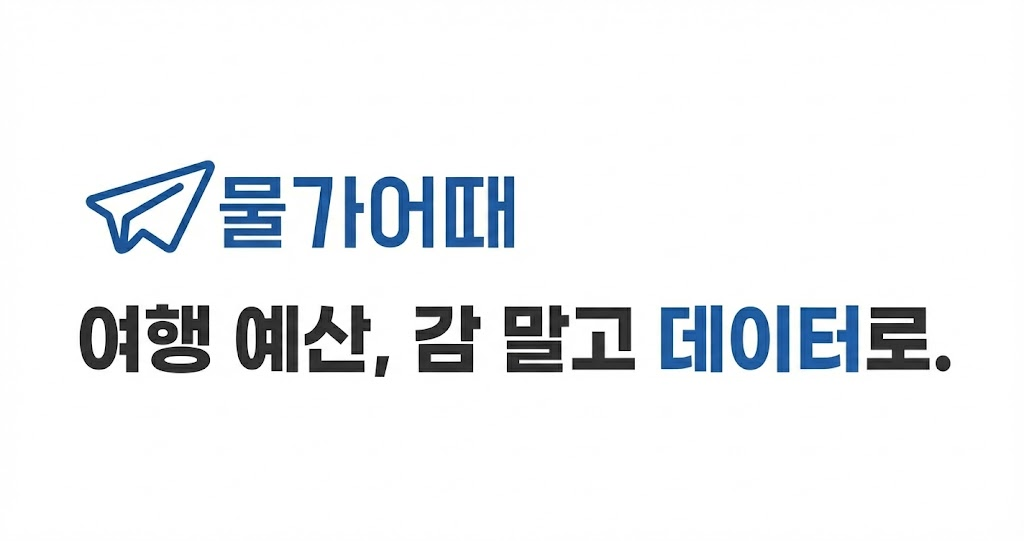
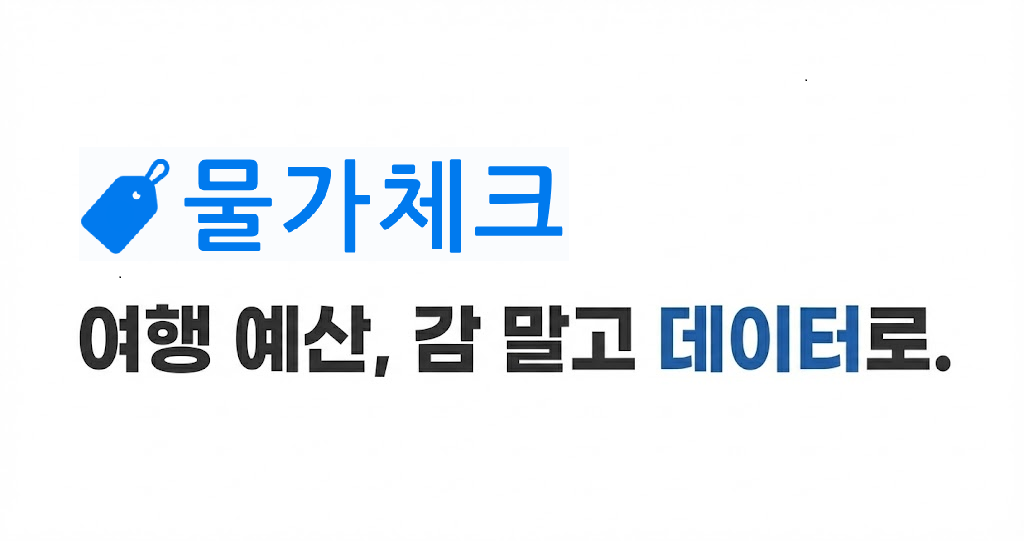
Add Vercel Analytics

Changed region(s): [[0.0625, 0.2957, 0.5625, 0.4732]]

diff --git a/src/app/checklist/page.tsx b/src/app/checklist/page.tsx
@@ -10,7 +10,9 @@ export default function ChecklistPage() {
   const [checkedItems, setCheckedItems] = useState<string[]>([]);
   const [isLoaded, setIsLoaded] = useState(false);
   const [previewUrl, setPreviewUrl] = useState<string | null>(null);
+  
   const captureRef = useRef<HTMLDivElement>(null);
+
   const getAllItems = () => {
     return CHECKLIST_CATEGORIES.flatMap((category) => category.items);
   };
@@ -77,7 +79,7 @@ export default function ChecklistPage() {
       const url = `${window.location.origin}${window.location.pathname}?data=${data}`;
 
       const shareData = {
-        title: '물가어때 - 여행 짐 싸기 체크리스트',
+        title: '물가체크 - 여행 짐 싸기 체크리스트',
         text: `현재 짐 챙기기 ${progress}% 완료! 제 리스트를 확인해보세요.`,
         url: url,
       };
@@ -109,7 +111,7 @@ export default function ChecklistPage() {
         setPreviewUrl(dataUrl);
       } else {
         const link = document.createElement("a");
-        link.download = `mulgaeottae_checklist_${Date.now()}.png`;
+        link.download = `mulgacheck_checklist_${Date.now()}.png`;
         link.href = dataUrl;
         link.click();
       }
@@ -161,7 +163,7 @@ export default function ChecklistPage() {
         <div className="bg-[#F8FAFC] p-4 -m-4">
           <div className="text-center mb-8 md:hidden">
               <h2 className="text-xl font-bold text-slate-800">나의 여행 체크리스트</h2>
-              <p className="text-xs text-slate-400 mt-1">물가어때(Mulgaeottae) 제공</p>
+              <p className="text-xs text-slate-400 mt-1">물가체크(MulgaCheck) 제공</p>
           </div>
 
           <div className="grid grid-cols-1 md:grid-cols-2 gap-6">
@@ -201,7 +203,7 @@ export default function ChecklistPage() {
           </div>
           
           <div className="mt-8 text-center hidden md:block">
-            <p className="text-[10px] text-slate-300 font-bold uppercase tracking-widest">Powered by Mulgaeottae</p>
+            <p className="text-[10px] text-slate-300 font-bold uppercase tracking-widest">Powered by MulgaCheck</p>
           </div>
         </div>
       </div>
@@ -255,11 +257,11 @@ export default function ChecklistPage() {
       <div style={{ position: "fixed", left: "-9999px", top: 0 }}>
         <div 
           ref={captureRef} 
-          className="w-[900px] bg-[#F8FAFC] p-12" 
+          className="w-[900px] bg-[#F8FAFC] p-12"
         >
           <div className="text-center mb-10">
             <h1 className="text-4xl font-black text-slate-900 mb-2">나의 여행 체크리스트</h1>
-            <p className="text-lg text-slate-500 font-bold">물가어때 (Mulgaeottae) 제공</p>
+            <p className="text-lg text-slate-500 font-bold">물가체크 (MulgaCheck) 제공</p>
           </div>
 
           <div className="flex justify-between items-center mb-8 px-4">
@@ -272,7 +274,7 @@ export default function ChecklistPage() {
                 </div>
              </div>
              <div className="text-slate-400 font-medium text-sm">
-                mulgaeottae.site
+                MulgaCheck
              </div>
           </div>
 

diff --git a/src/app/layout.tsx b/src/app/layout.tsx
@@ -11,22 +11,22 @@ const inter = Inter({ subsets: ["latin"] });
 export const metadata: Metadata = {
   metadataBase: new URL("https://www.mulgaeottae.site/"),
   title: {
-    template: "%s | 물가어때",
-    default: "물가어때 - 여행 예산, 감 말고 데이터로",
+    template: "%s | 물가체크",
+    default: "물가체크 - 여행 예산, 감 말고 데이터로",
   },
   description: "전 세계 여행지 물가 비교, 실시간 환율 계산, 짐 싸기 체크리스트까지. 여행 준비의 모든 것을 데이터로 확인하세요.",
   keywords: ["여행", "물가", "환율", "여행예산", "체크리스트", "해외여행", "배낭여행"],
   openGraph: {
-    title: "물가어때 - 여행 예산, 감 말고 데이터로",
+    title: "물가체크 - 여행 예산, 감 말고 데이터로",
     description: "지금 가장 저렴한 여행지는? 빅맥지수, 스타벅스 지수로 알아보는 현실적인 여행 물가.",
     url: "https://www.mulgaeottae.site/",
-    siteName: "물가어때",
+    siteName: "물가체크",
     images: [
       {
         url: "/og-image.png",
         width: 1200,
         height: 630,
-        alt: "물가어때 미리보기",
+        alt: "물가체크 미리보기",
       },
     ],
     locale: "ko_KR",
@@ -34,7 +34,7 @@ export const metadata: Metadata = {
   },
   twitter: {
     card: "summary_large_image",
-    title: "물가어때 - 여행 예산, 감 말고 데이터로",
+    title: "물가체크 - 여행 예산, 감 말고 데이터로",
     description: "전 세계 여행지 물가 비교 및 예산 계산기",
     images: ["/og-image.png"],
   },
@@ -54,8 +54,8 @@ export const metadata: Metadata = {
 const jsonLd = {
   "@context": "https://schema.org",
   "@type": "WebSite",
-  "name": "물가어때",
-  "alternateName": ["Mulgaeottae", "물가어때 여행"],
+  "name": "물가체크",
+  "alternateName": ["MulgaCheck", "물가체크 여행"],
   "url": "https://www.mulgaeottae.site/"
 };
 

diff --git a/src/app/checklist/layout.tsx b/src/app/checklist/layout.tsx
@@ -1,15 +1,14 @@
 import type { Metadata } from "next";
 
-// ✅ 체크리스트 페이지 전용 메타데이터
 export const metadata: Metadata = {
-  title: "여행 짐 싸기 체크리스트 - 물가어때",
+  title: "여행 짐 싸기 체크리스트 - 물가체크",
   description: "빠뜨린 물건 없으신가요? 여권, 돼지코, 상비약 등 필수 준비물을 체크하고 친구와 공유해보세요.",
   openGraph: {
-    title: "여행 짐 싸기 체크리스트 - 물가어때",
+    title: "여행 짐 싸기 체크리스트 - 물가체크",
     description: "클릭 몇 번으로 짐 싸기 끝! 내 리스트를 친구에게 공유하세요.",
     images: [
       {
-        url: "/og-image.png", // 체크리스트 전용 이미지를 따로 만들어 넣어도 좋습니다.
+        url: "/og-image.png",
         width: 1200,
         height: 630,
         alt: "여행 짐 싸기 체크리스트",

diff --git a/src/components/Footer.tsx b/src/components/Footer.tsx
@@ -19,15 +19,15 @@ export default function Footer() {
             본 사이트는 정보 제공을 목적으로 운영되며, 여행 상품의 직접적인 판매 당사자가 아닙니다.
           </p>
           <p className="font-medium text-slate-500">
-            이 사이트는 제휴마케팅이 포함된 광고로 커미션을 지급 받습니다.
+            이 포스팅은 제휴마케팅이 포함된 광고로 커미션을 지급 받습니다.
           </p>
           <p className="mt-1 text-slate-400">
-            이 사이트는 링크프라이스 활동을 통해 일정액의 수수료를 제공받을 수 있습니다.
+            이 포스팅은 링크프라이스 이벤트 참여를 위해 작성되었습니다.
           </p>
         </div>
 
         <p className="text-slate-400 text-[10px] font-bold tracking-[0.2em] uppercase">
-          © 2026 MULGAEOTTAE. All rights reserved.
+          © 2026 MULGACHECK. All rights reserved.
         </p>
       </div>
     </footer>

diff --git a/src/app/page.tsx b/src/app/page.tsx
@@ -13,12 +13,11 @@ export default async function Home() {
 
   return (
     <div className="min-h-screen bg-slate-50 bg-dot-pattern flex flex-col items-center relative">
-      {/* ✅ 수정됨: 로고와 배지 위치 조정 (안쪽으로 모으고 아래로 내림) */}
       <nav className="absolute top-0 left-0 right-0 mx-auto w-full max-w-7xl flex justify-between items-start px-6 pt-8 md:px-8 z-50">
         <div className="relative w-40 h-12 md:w-56 md:h-16">
           <Image 
             src="/logo.png" 
-            alt="물가어때" 
+            alt="물가체크" 
             fill 
             className="object-contain object-left-top" 
             priority 
@@ -83,7 +82,7 @@ export default async function Home() {
                   예산으로<br/>여행지 찾기
                 </h2>
                 <p className="text-emerald-100 text-sm font-medium opacity-90">
-                  "100만원으로 어디 가지?"<br/>물가어때가 추천해드려요.
+                  "100만원으로 어디 가지?"<br/>물가체크가 추천해드려요.
                 </p>
               </div>
               <div className="bg-white/10 backdrop-blur-sm self-start p-3 rounded-full mt-4 group-hover:bg-white/20 transition-colors">

diff --git a/src/app/privacy/page.tsx b/src/app/privacy/page.tsx
@@ -5,7 +5,6 @@ export default function PrivacyPage() {
   return (
     <div className="min-h-screen bg-white p-6 md:p-12 text-slate-700">
       <div className="max-w-3xl mx-auto prose prose-slate">
-        {/* ✅ 뒤로가기 버튼 추가 */}
         <div className="mb-8 not-prose">
           <Link 
             href="/" 
@@ -18,10 +17,10 @@ export default function PrivacyPage() {
 
         <h1 className="text-3xl font-black text-slate-900 mb-8">개인정보처리방침</h1>
         
-        <p className="text-sm text-slate-400 mb-8">최종 수정일: 2026년 2월 2일</p>
+        <p className="text-sm text-slate-400 mb-8">최종 수정일: 2026년 2월 4일</p>
 
         <p>
-          물가어때(이하 "서비스")는 이용자의 개인정보를 소중히 다루며, 관련 법령을 준수하고 있습니다.
+          물가체크(이하 "서비스")는 이용자의 개인정보를 소중히 다루며, 관련 법령을 준수하고 있습니다.
         </p>
 
         <h3 className="text-xl font-bold text-slate-900 mt-6 mb-3">1. 수집하는 개인정보 항목</h3>

diff --git a/src/app/terms/page.tsx b/src/app/terms/page.tsx
@@ -5,7 +5,6 @@ export default function TermsPage() {
   return (
     <div className="min-h-screen bg-white p-6 md:p-12 text-slate-700">
       <div className="max-w-3xl mx-auto prose prose-slate">
-        {/* ✅ 뒤로가기 버튼 추가 */}
         <div className="mb-8 not-prose">
           <Link 
             href="/" 
@@ -18,10 +17,10 @@ export default function TermsPage() {
 
         <h1 className="text-3xl font-black text-slate-900 mb-8">이용약관</h1>
         
-        <p className="text-sm text-slate-400 mb-8">최종 수정일: 2026년 2월 2일</p>
+        <p className="text-sm text-slate-400 mb-8">최종 수정일: 2026년 2월 4일</p>
 
         <h3 className="text-xl font-bold text-slate-900 mt-6 mb-3">제1조 (목적)</h3>
-        <p>본 약관은 물가어때(이하 "서비스")가 제공하는 모든 서비스의 이용 조건 및 절차, 이용자와 서비스의 권리, 의무, 책임사항을 규정함을 목적으로 합니다.</p>
+        <p>본 약관은 물가체크(이하 "서비스")가 제공하는 모든 서비스의 이용 조건 및 절차, 이용자와 서비스의 권리, 의무, 책임사항을 규정함을 목적으로 합니다.</p>
 
         <h3 className="text-xl font-bold text-slate-900 mt-6 mb-3">제2조 (서비스의 제공 및 변경)</h3>
         <p>